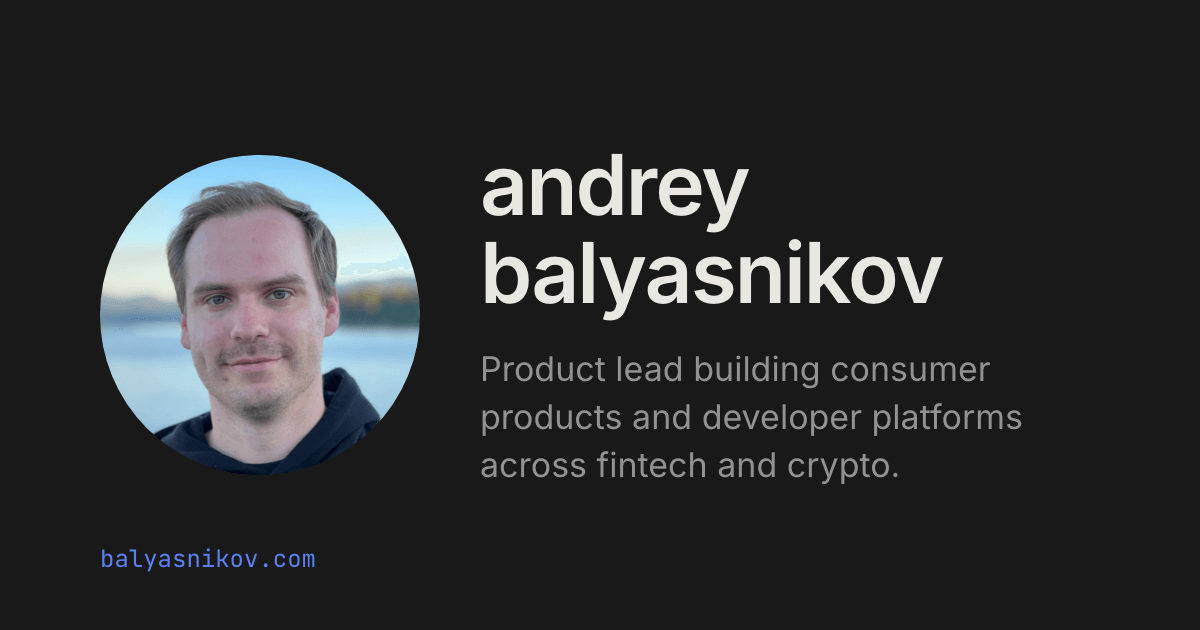
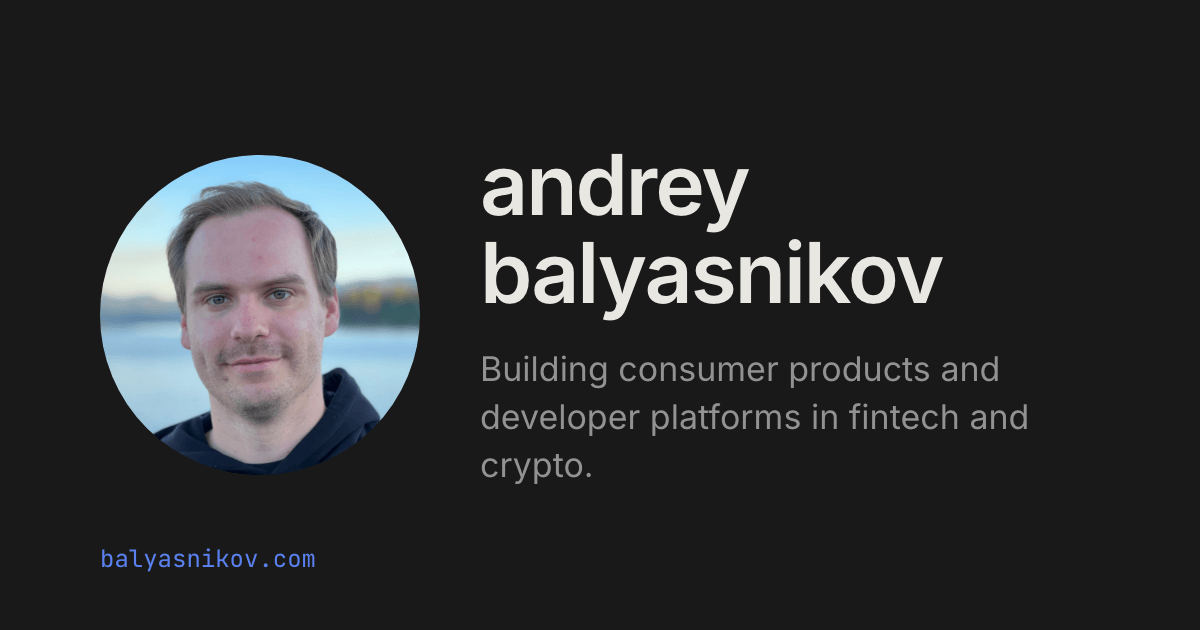
E: owner decisions — asymmetric section rhythm, card copy, AA target rule
1. Section separation becomes 72px above a rule and 40px below it on desktop,
   56/32 below 672px, carried by --rule-space-above and --rule-space-below. The
   rule now belongs to the section it opens instead of splitting the gap. The
   two boundaries that are not numbered-section joins, the hero edge and the
   footer border, were left reading differently by the general rule, so both
   now use the same pair. All seven rules on the page measure identically.
   DESIGN.md gets the new rhythm, rule 12 and three decision-log entries.

2. The share card carries its own approved line, "Building consumer products
   and developer platforms in fintech and crypto." og:description and
   twitter:description now match the image; the page description and the hero
   are untouched. The line wraps to three lines, not two — see the report.

3. scripts/audit/measure.mjs now enforces WCAG 2.2 SC 2.5.8 at Level AA: 24x24
   or the 24px-circle spacing exception. 44px moved to a reported-only SC 2.5.5
   line that cannot fail the run. While rewriting it I found the old check was
   also reading clipped geometry: header items scrolled out of the horizontally
   scrolling nav kept their unclipped rects and appeared to sit 2px from the
   theme control. Target rects are now intersected with every clipping ancestor,
   so the suite measures what a user can actually reach.

4. The 404 copy is final, so its pending-approval comment and note are gone.
[…]

Changed region(s): [[0.4008, 0.573, 0.8633, 0.6937], [0.4008, 0.7238, 0.74, 0.7841]]

diff --git a/app/globals.css b/app/globals.css
@@ -70,7 +70,7 @@
   .article-nav a { min-height: var(--hit-target); display: inline-flex; flex: 0 0 auto; align-items: center; font-size: var(--text-small); text-decoration: none; }
   .article-nav span { min-width: 0; overflow: hidden; color: var(--muted); font-size: var(--text-tiny); text-overflow: ellipsis; white-space: nowrap; }
 
-  .reference-hero { margin: 0; padding: var(--s7) 0 1.875rem; }
+  .reference-hero { margin: 0; padding: var(--s7) 0 var(--rule-space-above); }
   .identity { margin-bottom: var(--s5); display: flex; align-items: flex-start; gap: var(--s5); }
   .identity img {
     width: 7rem;
@@ -84,7 +84,7 @@
   }
 
   .reference-section {
-    padding: var(--s8) 0;
+    padding: var(--rule-space-below) 0 var(--rule-space-above);
     border-top: 1px solid var(--rule);
     border-color: color-mix(in srgb, var(--rule) 70%, transparent);
     scroll-margin-top: 5.5rem;
@@ -237,7 +237,7 @@
   .contact-links { margin-top: var(--s6); display: flex; flex-wrap: wrap; gap: var(--s3) var(--s5); font-size: var(--text-content); }
 
   .reference-footer {
-    padding: var(--s6) 0;
+    padding: var(--rule-space-below) 0 var(--s6);
     display: flex;
     justify-content: space-between;
     gap: var(--s4);
@@ -302,7 +302,7 @@
     .topline { height: 3.5rem; gap: var(--s3); }
     .header-nav { --nav-gap: var(--s4); }
     .reference-section { scroll-margin-top: 4.5rem; }
-    .reference-hero { padding: var(--s6) 0 var(--s5); }
+    .reference-hero { padding-top: var(--s6); }
     .identity { flex-direction: column; align-items: flex-start; gap: 1.25rem; }
     .identity img { width: 6.25rem; height: 6.25rem; flex-basis: 6.25rem; }
     .identity h1 { font-size: var(--text-title-compact); line-height: 2.34375rem; letter-spacing: -0.025em; white-space: nowrap; }
@@ -310,7 +310,6 @@
     .terminal { width: 100%; min-height: 0; }
     .terminal-body { min-height: 0; padding: var(--s3); font-size: var(--text-small); line-height: 1rem; }
     .eval-row { min-height: 1rem; grid-template-columns: 5.25rem minmax(0, 1fr); column-gap: var(--s2); }
-    .reference-section { padding: var(--s7) 0; }
     .post { padding-top: var(--s7); }
     .post-header { padding-bottom: var(--s7); }
     .post-header h1 { line-height: 1.12; }

diff --git a/app/layout.tsx b/app/layout.tsx
@@ -8,6 +8,8 @@ const siteUrl = "https://balyasnikov.com";
 const siteTitle = "Andrey Balyasnikov — Product Lead";
 const siteDescription =
   "Product lead building consumer products and developer platforms across fintech and crypto.";
+// The share card carries its own line, so the image and the card text match.
+const cardDescription = "Building consumer products and developer platforms in fintech and crypto.";
 
 const themeScript = `(function () {
   try {
@@ -46,14 +48,14 @@ export const metadata: Metadata = {
     locale: "en_US",
     siteName: "Andrey Balyasnikov",
     title: siteTitle,
-    description: siteDescription,
+    description: cardDescription,
     url: "/",
     images: [{ url: "/og.png", width: 1200, height: 630, alt: "Andrey Balyasnikov — product lead" }],
   },
   twitter: {
     card: "summary_large_image",
     title: siteTitle,
-    description: siteDescription,
+    description: cardDescription,
     images: [{ url: "/og.png", alt: "Andrey Balyasnikov — product lead" }],
   },
 };

diff --git a/styles/tokens.css b/styles/tokens.css
@@ -38,6 +38,11 @@
   --s8: 4rem;
   --s9: 6rem;
 
+  /* Section rhythm. A section rule belongs to the section it opens, so it sits
+     closer to that section than to the one it closes. */
+  --rule-space-above: 4.5rem;
+  --rule-space-below: 2.5rem;
+
   --page-width: 41rem;
   --page-gutter: clamp(1.25rem, 5vw, 2rem);
   --radius-sm: 0.25rem;
@@ -57,6 +62,14 @@
   --terminal-green: #4f7629;
   --accent: #2b61ff;
   --runner-blue: #2b61ff;
+}
+
+/* The same proportion, tightened for narrow viewports. */
+@media (max-width: 42rem) {
+  :root {
+    --rule-space-above: 3.5rem;
+    --rule-space-below: 2rem;
+  }
 }
 
 :root[data-theme="dark"] {

diff --git a/app/not-found.tsx b/app/not-found.tsx
@@ -18,7 +18,6 @@ export default function NotFound() {
 
       <section className="post-empty" aria-labelledby="not-found-title">
         <p>404</p>
-        {/* Placeholder copy: mirrors the post not-found wording, pending approval. */}
         <h1 id="not-found-title">This page does not exist.</h1>
         <Link href="/">← back home</Link>
       </section>

diff --git a/DESIGN.md b/DESIGN.md
@@ -72,7 +72,8 @@ The old editorial exploration remains unchanged in `demo/index.html`; its matchi
 8. The header contains only unnumbered horizontal section navigation and the theme control. It is sticky, single-line, and horizontally scrollable on narrow screens.
 9. Rules separate structural regions only: sticky header, major sections, terminal chrome, and footer. Repeated content rows rely on spacing instead of dividers.
 10. Section navigation and card-shaped rows carry no underline. Their click affordance is the block target itself, plus the accent arrow on writing rows. Underlines stay on links that sit inside running text, where nothing else marks them.
-11. Standalone controls carry a 44px pointer target in a pseudo-element, so the target grows without moving or resizing anything on screen. Where neighbouring controls sit closer than 44px apart, their zones split the gap instead of overlapping.
+11. Standalone controls carry a 44px pointer target in a pseudo-element, so the target grows without moving or resizing anything on screen. Where neighbouring controls sit closer than 44px apart, their zones split the gap instead of overlapping; the binding requirement is SC 2.5.8 at 24px, which spacing satisfies.
+12. A section rule belongs to the section it opens. Space above it is larger than space below it, and the two values are the same for every rule on the page.
 
 ## Color and themes
 
@@ -103,7 +104,9 @@ Site body remains 16px and compact section copy is 14px, matching the reference.
 
 ## Layout rhythm
 
-The 4px scale is strict. Normal gaps use 12–24px; major section separation uses 64–96px. Each numbered section starts with a rule, then 64px of internal space on desktop and 48px on mobile.
+The 4px scale is strict. Normal gaps use 12–24px.
+
+Section separation is deliberately asymmetric: **72px above a rule, 40px below it** on desktop, **56/32** below 672px. The rule belongs to the section it opens, not to the gap between two sections, so it sits closer to the heading that follows than to the block it closes. `--rule-space-above` and `--rule-space-below` carry both values, and every rule on the page obeys them — including the two that are not numbered-section boundaries, the hero's edge with section 01 and the footer's top border.
 
 Rows share one structure: title/meta first, description second, and spacing between entries. They do not draw their own rules. Below 672px they stack into one column.
 
@@ -118,7 +121,8 @@ Writing source files live in `content/writing/*.md`. The filename defines the ro
 ## Responsive and accessibility
 
 - Minimum supported viewport: 320px; no horizontal overflow.
-- Controls preserve a practical 44px target where they stand alone, delivered by a pseudo-element so nothing shifts visually. Two places cannot reach 44px inside the current spacing and are knowingly short: header navigation items narrower than the gap allows, and the email/résumé pair, which sits 12px apart.
+- Every target meets WCAG 2.2 SC 2.5.8 (AA): 24×24, or the spacing exception. That is what `npm run audit` enforces.
+- Standalone controls also aim for a 44px target, delivered by a pseudo-element so nothing shifts visually. Header navigation items and the email/résumé pair fall short of 44px because their neighbours sit closer than that; both still clear AA on spacing. 44px is SC 2.5.5, Level AAA, so this is reported and not treated as a failure.
 - Below 400px the eval runner stacks its key over its value, because no key column leaves all seven descriptions on one line.
 - Every rendered text node clears WCAG AA in both themes: 4.5:1 normal, 3:1 large. `npm run audit` measures this with real alpha compositing.
 - Color is never the sole focus indicator.
@@ -157,3 +161,6 @@ Change a token in `styles/tokens.css` and this file together. A new raw color, t
 | 2026-07-31 | Remove the article `margin: 0 auto` | Centering the 608px measure inside the 656px shell broke rule 1 by 24px |
 | 2026-07-31 | Stop dimming the writing arrow | It is the only non-colour signal that the row is a link |
 | 2026-07-31 | Resolve the theme in an inline head script | The stored theme was applied after hydration, so a dark visitor got a light first frame |
+| 2026-07-31 | Make section separation asymmetric, 72 above a rule and 40 below | A rule centred in its own whitespace divides two sections equally and belongs to neither; moving it toward the heading it introduces makes it read as that section's opening |
+| 2026-07-31 | Apply the same pair to the hero edge and the footer border | They are rules too. Leaving them on the old symmetric spacing would have made two of the seven boundaries read differently |
+| 2026-07-31 | Enforce SC 2.5.8 (24px, AA) and report 44px as AAA | 44px is Level AAA and the Apple guideline, not the standard the site is held to; the audit was failing builds over an enhancement |

diff --git a/CLAUDE.md b/CLAUDE.md
@@ -65,10 +65,10 @@ out of date. If it conflicts with this project or looks stale, ask Andrey.
   placeholder. Do not replace it until Andrey supplies the factual sentence.
 - The three current writing files are public previews labelled `Draft`; none is
   published yet.
-- The copy on `app/not-found.tsx` is a placeholder that mirrors the post
-  not-found wording. It needs Andrey's approval before launch.
-- The OG image `public/og.png` is a first pass built from the parameters in the
-  audit spec. Its composition needs Andrey's sign-off.
+- `public/og.png` is generated, not hand-edited. Its copy is a separate approved
+  line from the hero, and the description wraps to three lines at the agreed
+  34px. Fitting two lines needs a 673px text column or a 32px size — both are
+  open questions, not defects.
 
 ## Writing contract
 
